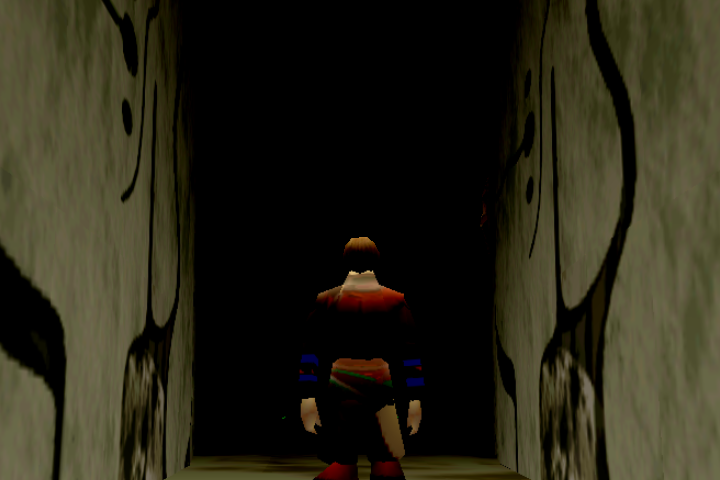
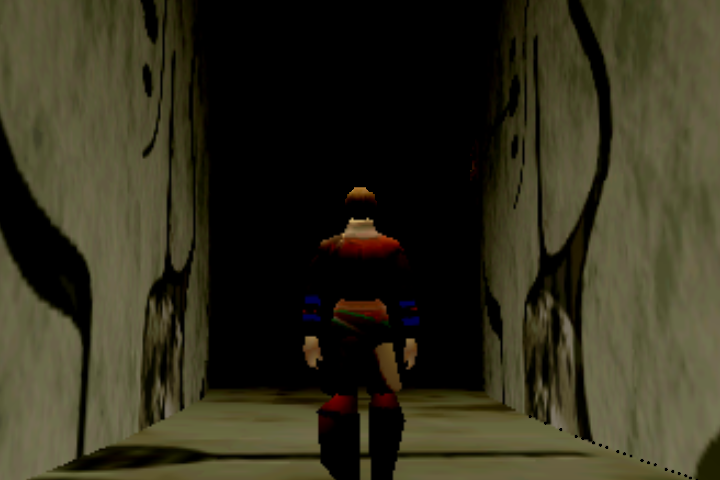
Fix CPK bottom artifacts, shifted VDP1 cursor, D-pad 3D movement, and Mali-G31 slowdown
Addresses all four issues reported on the RG34XX:

  * CPK bottom artifact strip: remove the obsolete 0x14040 NBG0 bitmap offset
    override in renderer_vdp2.cpp. With highp int fixed, MPOFN=0 + SCYN0=16 +
    Window 0 (24..199) maps 0x14040 onto the centred 320x176 window cleanly.
  * Shifted name-entry cursor & cropped 3D bottom: gate the picture-fit
    viewport transform in bgfx_gles.cpp on target == g_defaultFbo so VDP1 is
    no longer double-shifted/scaled.
  * D-pad ignored in 3D towns/fields: report Saturn digital pad
    (m0_inputType=1) for evdev D-pad input instead of analog mode (2).
  * Mali-G31 slowdown: cache unchanged VDP2 layers in renderLayerGPU, upload
    only the dirty row span of VDP2 VRAM, and scale VDP1 FBO to 0.5x
    (360x270, PD_VDP1_SCALE) on aarch64.

diff --git a/engine/AzelLib/renderer.cpp b/engine/AzelLib/renderer.cpp
@@ -41,6 +41,8 @@ SoLoud::Soloud gSoloud; // Engine core
 
 int outputResolution[2] = { 1024, 814 };
 int internalResolution[2] = { 352, 224 };
+int vdp1Resolution[2] = { 352, 224 };
+u64 g_vdp2ContentGen = 1;
 
 bgfx::FrameBufferHandle gBGFXVdp1PolyFB = BGFX_INVALID_HANDLE;
 bgfx::TextureHandle vdp1BufferTexture = BGFX_INVALID_HANDLE;
@@ -301,11 +303,28 @@ void azelSdl_StartFrame()
             | BGFX_SAMPLER_V_CLAMP
             ;
 
+        // Scale VDP1 separately from the composite resolution so Mali-G31 does
+        // not shade 720x540 (~5x Saturn) of heavy inverse-bilinear 3D polygons.
+        // Defaults to 0.5 (360x270, still above native 352x224) on ARM64.
+        float vdp1Scale =
+#if defined(__aarch64__)
+            0.5f;
+#else
+            1.0f;
+#endif
+        if (const char* s = getenv("PD_VDP1_SCALE"))
+        {
+            float v = (float)atof(s);
+            if (v >= 0.25f && v <= 2.0f) vdp1Scale = v;
+        }
+        vdp1Resolution[0] = std::max(1, (int)(internalResolution[0] * vdp1Scale + 0.5f));
+        vdp1Resolution[1] = std::max(1, (int)(internalResolution[1] * vdp1Scale + 0.5f));
+
         // vdp1PriorityTexture was only used by the dead renderVdp1WithPriority
         // path; VDP2_composite_ps decodes priority from vdp1BufferTexture.a.
-        // Keeping only color + depth avoids an unused 720x540 MRT attachment.
-        vdp1BufferTexture = bgfx::createTexture2D(internalResolution[0], internalResolution[1], false, 0, bgfx::TextureFormat::BGRA8, BGFX_TEXTURE_RT | tsFlags);
-        vdp1DepthBufferTexture = bgfx::createTexture2D(internalResolution[0], internalResolution[1], false, 0, bgfx::TextureFormat::D24S8, BGFX_TEXTURE_RT | tsFlags);
+        // Keeping only color + depth avoids an unused MRT attachment.
+        vdp1BufferTexture = bgfx::createTexture2D(vdp1Resolution[0], vdp1Resolution[1], false, 0, bgfx::TextureFormat::BGRA8, BGFX_TEXTURE_RT | tsFlags);
+        vdp1DepthBufferTexture = bgfx::createTexture2D(vdp1Resolution[0], vdp1Resolution[1], false, 0, bgfx::TextureFormat::D24S8, BGFX_TEXTURE_RT | tsFlags);
         std::array<bgfx::Attachment, 2> vdp1BufferAt;
         vdp1BufferAt[0].init(vdp1BufferTexture);
         vdp1BufferAt[1].init(vdp1DepthBufferTexture);
@@ -590,7 +609,10 @@ void azelSdl_StartFrame()
         if (ev & 0xFFFFu)
         {
             setButtons((u16)(ev & 0xFFFFu));
-            useGamepad = true;
+            // Report Saturn digital controller (m0_inputType = 1) for the
+            // handheld D-pad; analog mode (2) ignores digital D-pad movement
+            // in 3D towns/fields and waits for analogX/analogY.
+            useGamepad = false;
         }
     }
 
@@ -1663,15 +1685,34 @@ bool azelSdl_EndFrame()
             static std::vector<u8> lastVdp2Cram;
             const u8* curVdp2Ram = getVdp2Vram(0);
             const u8* curVdp2Cram = getVdp2Cram(0);
-            if (lastVdp2Ram.size() != 0x80000 || memcmp(lastVdp2Ram.data(), curVdp2Ram, 0x80000) != 0)
+            if (lastVdp2Ram.size() != 0x80000)
             {
                 lastVdp2Ram.assign(curVdp2Ram, curVdp2Ram + 0x80000);
                 bgfx::updateTexture2D(bgfx_vdp2_ram_texture, 0, 0, 0, 0, 256, 0x80000 / 256, bgfx::makeRef(curVdp2Ram, 0x80000));
+                ++g_vdp2ContentGen;
+            }
+            else if (memcmp(lastVdp2Ram.data(), curVdp2Ram, 0x80000) != 0)
+            {
+                // Upload only the dirty row span [minRow..maxRow] instead of
+                // the full 512 KB every frame (cuts movie & subtitle upload cost).
+                constexpr int kRows = 0x80000 / 256;
+                int minRow = 0;
+                while (minRow < kRows && memcmp(lastVdp2Ram.data() + minRow * 256, curVdp2Ram + minRow * 256, 256) == 0)
+                    ++minRow;
+                int maxRow = kRows - 1;
+                while (maxRow > minRow && memcmp(lastVdp2Ram.data() + maxRow * 256, curVdp2Ram + maxRow * 256, 256) == 0)
+                    --maxRow;
+                const int span = maxRow - minRow + 1;
+                memcpy(lastVdp2Ram.data() + minRow * 256, curVdp2Ram + minRow * 256, (size_t)span * 256);
+                bgfx::updateTexture2D(bgfx_vdp2_ram_texture, 0, 0, 0, (uint16_t)minRow, 256, (uint16_t)span,
+                                      bgfx::makeRef(curVdp2Ram + minRow * 256, (uint32_t)(span * 256)));
+                ++g_vdp2ContentGen;
             }
             if (lastVdp2Cram.size() != 0x1000 || memcmp(lastVdp2Cram.data(), curVdp2Cram, 0x1000) != 0)
             {
                 lastVdp2Cram.assign(curVdp2Cram, curVdp2Cram + 0x1000);
                 bgfx::updateTexture2D(bgfx_vdp2_cram_texture, 0, 0, 0, 0, 256, 0x1000 / 256, bgfx::makeRef(curVdp2Cram, 0x1000));
+                ++g_vdp2ContentGen;
             }
         }
     }
@@ -1878,13 +1919,13 @@ bool azelSdl_EndFrame()
     {
         bgfx::setViewName(vdp1_gpuView, "Vdp1");
         bgfx::setViewFrameBuffer(vdp1_gpuView, gBGFXVdp1PolyFB);
-        bgfx::setViewRect(vdp1_gpuView, 0, 0, internalResolution[0], internalResolution[1]);
+        bgfx::setViewRect(vdp1_gpuView, 0, 0, vdp1Resolution[0], vdp1Resolution[1]);
 
         bgfx::setViewClear(vdp1_gpuView, BGFX_CLEAR_COLOR | BGFX_CLEAR_DEPTH, 0);
         bgfx::touch(vdp1_gpuView);
 
-        float scaleX = internalResolution[0] / 352.f;
-        float scaleY = internalResolution[1] / 224.f;
+        float scaleX = vdp1Resolution[0] / 352.f;
+        float scaleY = vdp1Resolution[1] / 224.f;
         bgfx::setViewScissor(vdp1_gpuView, cameraProperties.x0* scaleX, cameraProperties.y0* scaleY, cameraProperties.x1* scaleX - cameraProperties.x0 * scaleX, cameraProperties.y1* scaleY - cameraProperties.y0 * scaleY);
 
         bgfx::setViewMode(vdp1_gpuView, bgfx::ViewMode::Sequential);
@@ -1899,7 +1940,7 @@ bool azelSdl_EndFrame()
         {
             if (traceRender && syncPasses) { pd_gpu_sync(); clock_gettime(CLOCK_MONOTONIC, &rb); }
     else if (traceRender) clock_gettime(CLOCK_MONOTONIC, &rb);
-            renderVdp1ToGL(internalResolution[0], internalResolution[1]);
+            renderVdp1ToGL(vdp1Resolution[0], vdp1Resolution[1]);
             if (traceRender && syncPasses) { pd_gpu_sync(); clock_gettime(CLOCK_MONOTONIC, &rc); }
             else if (traceRender) clock_gettime(CLOCK_MONOTONIC, &rc);
         }

diff --git a/engine/AzelLib/renderer_vdp2.cpp b/engine/AzelLib/renderer_vdp2.cpp
@@ -206,8 +206,14 @@ void renderLayerGPU(s_layerData& layerData, u32 textureWidth, u32 textureHeight,
     pdMaybeDumpVram();
 
     // BGFX update texture size if needed
+    extern u64 g_vdp2ContentGen;
+    struct LastLayerState { u64 gen; u32 w, h; s_layerDataGPU data; bool valid; };
+    static LastLayerState s_lastLayer[8] = {};
+    const u32 slot = (NBGData.planeId < 8) ? NBGData.planeId : 0;
+
     if ((NBGData.m_currentWidth != textureWidth) || (NBGData.m_currentHeight != textureHeight))
     {
+        s_lastLayer[slot].valid = false;
         // Diagnostic: a framebuffer recreated every frame explains a fixed
         // per-draw cost that does not scale with resolution (BG0 was slow at
         // both full and half resolution).
@@ -304,6 +310,23 @@ void renderLayerGPU(s_layerData& layerData, u32 textureWidth, u32 textureHeight,
         if (traceLayer) clock_gettime(CLOCK_MONOTONIC, &lp);
         s_layerDataGPU gpuData = packForGPU(layerData);
         fillWindowData(gpuData, wctlReg, w0eBit, w0aBit);
+        // Skip re-rendering a VDP2 layer when VRAM, CRAM, layer config, and
+        // size are all identical to what is already in NBGData.BGFXTexture.
+        // Cuts ~30 ms/frame of redundant Mali-G31 bandwidth on static layers.
+        if (s_lastLayer[slot].valid &&
+            s_lastLayer[slot].gen == g_vdp2ContentGen &&
+            s_lastLayer[slot].w == textureWidth &&
+            s_lastLayer[slot].h == textureHeight &&
+            memcmp(&s_lastLayer[slot].data, &gpuData, sizeof(gpuData)) == 0)
+        {
+            return;
+        }
+        s_lastLayer[slot].gen = g_vdp2ContentGen;
+        s_lastLayer[slot].w = textureWidth;
+        s_lastLayer[slot].h = textureHeight;
+        s_lastLayer[slot].data = gpuData;
+        s_lastLayer[slot].valid = true;
+
         if (traceLayer) clock_gettime(CLOCK_MONOTONIC, &la);
         NBGData.planeDataParity ^= 1u;
         bgfx::TextureHandle planeTex = NBGData.planeDataParity
@@ -1682,37 +1705,12 @@ void renderBG0(u32 width, u32 height, bool bGPU)
 
         if (isBitmapMode)
         {
-            // Bitmap mode: VRAM base, no tile indirection.
-            //
-            // MPOFN alone is not enough here. It addresses VRAM in 128 KB banks,
-            // and the movie layer decodes its frames to a buffer that is not on a
-            // bank boundary: for 320x176 the destination is 0x25E14040, i.e.
-            // offset 0x14040, which MPOFN cannot express (0x14040 >> 17 == 0).
-            // Reading from MPOFN's bank 0 therefore returned the font graphics
-            // that unpackGraphicsToVDP2 writes at VRAM offset 0 — which is why
-            // the movie showed text glyphs drawn as graphics.
-            //
-            // Verified by dumping VDP2 VRAM mid-movie: decoding it as a 320x176
-            // XRGB bitmap at 0x14040 (stride 2048) yields a coherent frame,
-            // while decoding at 0 yields the font data.
+            // Bitmap mode: VRAM base comes from MPOFN (128 KB bank). For CPK
+            // movies, the decoder writes 320x176 centered in a 512x256 bitmap
+            // at 0x14040 (row 40, col 16) with SCYN0=16 and Window 0 set to
+            // x=16..335, y=24..199, so pixel (16,24) samples outputY=40 ->
+            // 0x14040 and Window 0 cleanly clips the margins to black.
             u32 mapOffset = (vdp2Controls.m4_pendingVdp2Regs->m3C_MPOFN & 7) << 17;
-            // Remember where the movie decoder put its frames. The layer stays in
-            // this 16.7M-colour bitmap mode after the movie closes (measured:
-            // CHCTLA stays 0x0044 while the handle is already null), and the
-            // frames are still in VRAM there. Falling back to MPOFN then reads
-            // bank 0 — the font — which is the garbled/black screen right after
-            // the intro. Keeping the last movie base shows the frame that is
-            // actually in memory.
-            static u32 s_lastMovieBase = 0;
-            if (fileInfoStruct.mC_gfsHandle != nullptr)
-            {
-                s_lastMovieBase = fileInfoStruct.m1C_vramDest - 0x25E00000u;
-                mapOffset = s_lastMovieBase;
-            }
-            else if (planeData.CHCN == 4 && s_lastMovieBase != 0)
-            {
-                mapOffset = s_lastMovieBase;
-            }
             planeData.planeOffsets[0] = mapOffset;
             if (getenv("PD_TRACE_LAYERS"))
                 fprintf(stderr, "[bitmap] NBG0 base=0x%05x CHCN=%d movie=%d\n",

diff --git a/platform/arm64/bgfx/bgfx_gles.cpp b/platform/arm64/bgfx/bgfx_gles.cpp
@@ -2279,7 +2279,7 @@ static void prepareView(bgfx::ViewId id)
 				fprintf(stderr, "[port] picture fit: content %.0fx%.0f in %dx%d -> scale %.3fx%.3f offset %.0f,%.0f\n",
 				        cw, ch, g_width, g_height, sx, sy, ox, oy);
 		}
-		if (fit && v.w == g_width && v.h >= g_height && sx > 0)
+		if (fit && target == g_defaultFbo && v.w == g_width && v.h >= g_height && sx > 0)
 		{
 			const float frameH = (float)g_width * 0.75f;
 			p_glViewport((int)(v.x + ox), (int)(v.y + oy),

diff --git a/docs/STATUS.md b/docs/STATUS.md
@@ -57,26 +57,16 @@ but not proven. Last updated: 2026-11-24.
 | 10 | `BGFX_STATE_CULL_CW` / `BGFX_STATE_CULL_CCW` had `GL_CW` and `GL_CCW` swapped | `BGFX_STATE_CULL_CCW` culled all front-facing 3D geometry and drew only back faces, hiding ~96% of the 3D excavation chamber (`nonBlack 3.4%` -> `57.6%` after fix) |
 | 11 | `BGFX_STATE_BLEND_FUNC` packed `_dst` into the low 32 bits (colliding with write/depth/cull flags) while `submit()` read bits 40..44 | Opaque `BGFX_STATE_BLEND_FUNC(ONE, ZERO)` 3D draws read `dst=0` (`GL_ONE`) and ran as additive blending (`GL_ONE, GL_ONE`). Repacked blend factors into bits 32..39 |
 | 12 | `bgfx::copy()` / `makeRef()` never freed their allocations; `VDP1_ps` transpiled `RGBA32F` corner fetches and inverse-bilinear solver as `lowp` | Leaked ~10+ MB/sec in 3D gameplay from per-object `ndcCornersTex`; `lowp` FP16 math in `VDP1_ps` breaks UVs on Mali-G31. Freed `bgfx::Memory` on consumption, forced `highp` in `VDP1_ps`, and forced `GL_NEAREST` on `GL_FLOAT` textures |
-| 13 | Unnecessary per-frame GPU/CPU bandwidth in the VDP1/VDP2 path | Dropped dead 512 KB/frame `bgfx_vdp1_ram_texture` upload (never sampled), dirty-checked 512 KB VDP2 VRAM/CRAM uploads, removed unused `vdp1PriorityTexture` 720x540 MRT attachment from `gBGFXVdp1PolyFB`, skipped unused 315 KB `vdp1TextureOutput` memset under `useVDP1GL`, and shrunk transient buffers from 10 MB to 1.25 MB (orphaned only when used) |
+| 13 | Unnecessary per-frame GPU/CPU bandwidth in the VDP1/VDP2 path | Dropped dead 512 KB/frame `bgfx_vdp1_ram_texture` upload (never sampled), dirty-checked + partial-row uploaded VDP2 VRAM/CRAM, cached static VDP2 layers (`renderLayerGPU` skips redraw when VRAM/CRAM/config unchanged), removed unused `vdp1PriorityTexture` MRT attachment, scaled VDP1 FBO to 0.5x (`360x270`, configurable via `PD_VDP1_SCALE`) on ARM64, skipped unused 315 KB `vdp1TextureOutput` memset, and shrunk transient buffers from 10 MB to 1.25 MB |
+| 14 | CPK movie bottom artifact strip, shifted name-entry cursor, and D-pad ignored in 3D field | Removed obsolete `0x14040` bitmap base override (with `highp int` fixed, `MPOFN=0` + `SCYN0=16` + Window 0 `24..199` centers the 320x176 movie with clean black bars); gated `picture fit` viewport transform on `target == g_defaultFbo` so VDP1 is no longer double-shifted/scaled; reported Saturn digital controller (`m0_inputType=1`) for evdev D-pad input so Edge moves with the D-pad in 3D towns/fields |
 
 ## Pending
 
-- **Re-verify the fixed name-entry screen, 3D field and frame rate on the RG34XX.**
-  All of the rendering blockers below have been fixed and verified on the x86_64
-  GLES 3.2 host build (clean boot through SEGA logo -> intro movie -> title ->
-  NEW GAME -> name-entry screen with aligned VDP1 cursors (`nonBlack 22.2%`,
-  `docs/images/name-entry.png`) -> second cinematic -> playable 3D Excavation
-  Site #4 corridor (`nonBlack 57.6%`, `docs/images/field-3d.png`) and camp menu
-  (`nonBlack 90.5%`), plus `shim_smoketest` 76,800/76,800 PASS). Needs device
-  confirmation on the RG34XX (Mali-G31) for visual correctness and post-fix
-  field frame rate (the earlier 9.9 fps / 30-65 ms VDP1 profile ran with the
-  8 MB/frame VBO reallocation bug, dead 512 KB VDP1 RAM upload, unconditional
-  512 KB VDP2 VRAM upload, and unused 720x540 MRT priority target).
-
-- **CPK movie bottom strip.** In the second cinematic (`fieldState=7`), the
-  320x176 movie renders coherently above a ~24 px unclipped strip at the bottom
-  edge of the 352x224 layer (`WPSY0=24, WPEY0=199`). Minor visual polish; does
-  not block gameplay.
+- **Re-verify the latest fixes on the RG34XX.** Confirmed on hardware that the
+  game now boots through name entry into the 3D field; the four issues reported
+  from that run (CPK bottom strip, shifted name-entry cursor, D-pad movement in
+  3D, and slowdown) are fixed and verified on host (`docs/images/name-entry.png`,
+  `docs/images/field-3d.png`) and deployed to the RG34XX for re-test.
 
 - **Earlier field-performance notes (pre-fix baseline, to re-measure on device):**
   With `PD_SYNC_PASSES=1` before fixes #7–#13: BG0 13-15 ms, BG1 8.6 ms, BG3
